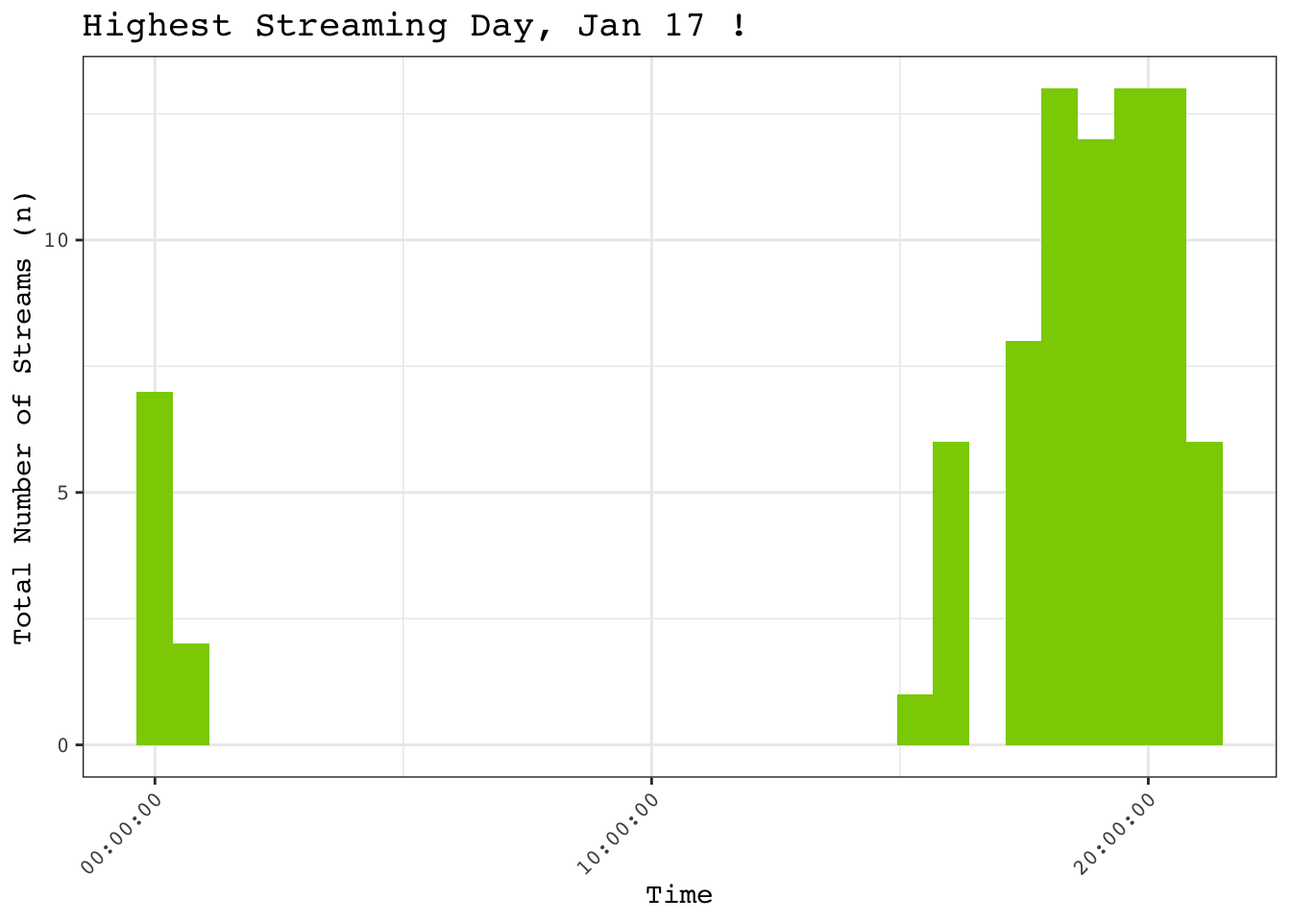
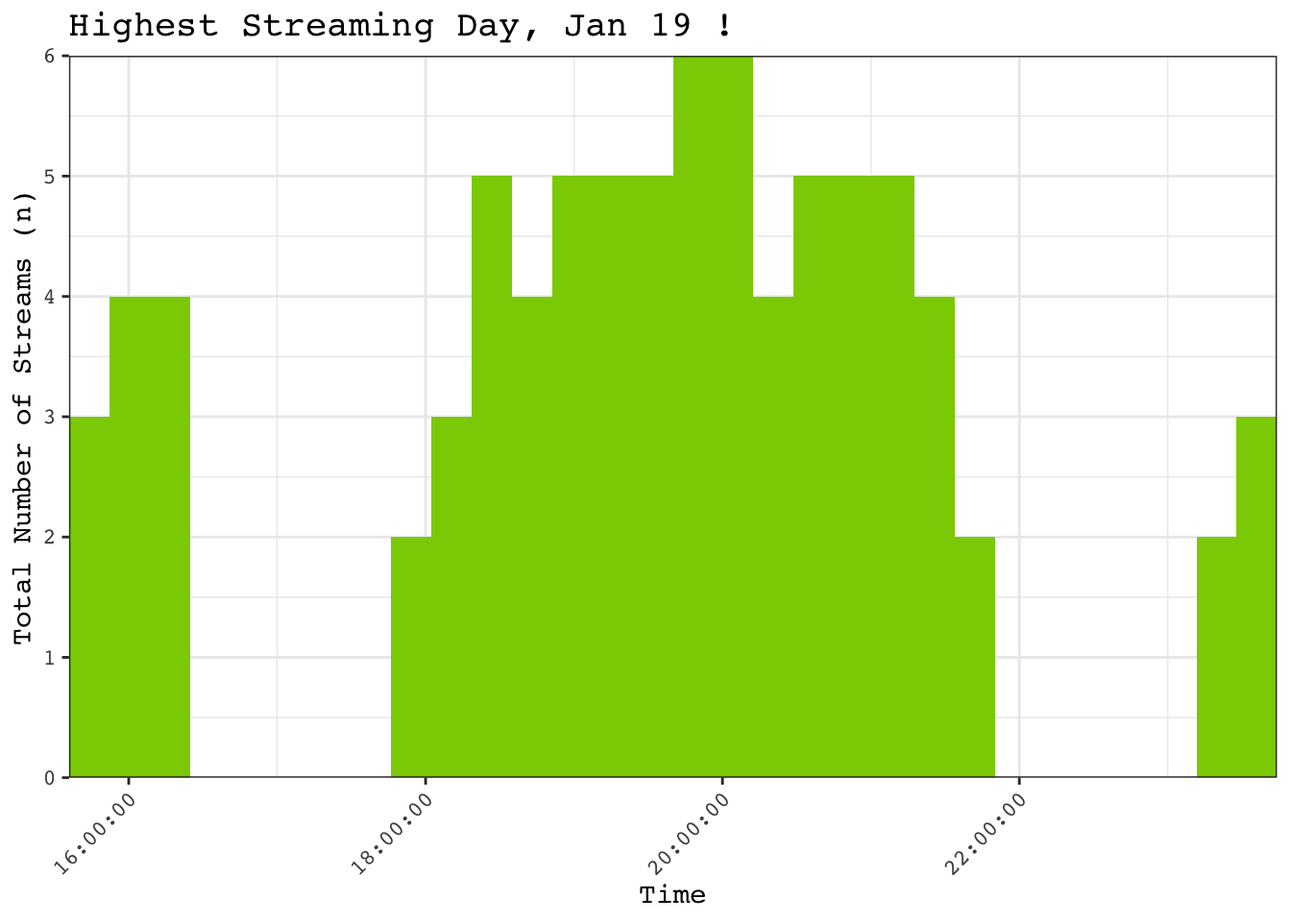
fix errors in code

diff --git a/spotify_wrapped.html b/spotify_wrapped.html
@@ -100,7 +100,7 @@ pre > code.sourceCode > span > a:first-child::before { text-decoration: underlin
 <header id="title-block-header" class="quarto-title-block default">
 <div class="quarto-title">
 <h1 class="title">Spotify Wrapped</h1>
-<p class="subtitle lead">The Flavour: A Deep Dive into My Monthly Streaming</p>
+<p class="subtitle lead">A Deep Dive into My Monthly Streaming</p>
 </div>
 
 
@@ -219,58 +219,58 @@ pre > code.sourceCode > span > a:first-child::before { text-decoration: underlin
 <div class="cell">
 <div class="sourceCode cell-code" id="cb7"><pre class="sourceCode r code-with-copy"><code class="sourceCode r"><span id="cb7-1"><a href="#cb7-1" aria-hidden="true" tabindex="-1"></a><span class="co"># Create monthly datasets</span></span>
 <span id="cb7-2"><a href="#cb7-2" aria-hidden="true" tabindex="-1"></a>monthly_datasets <span class="ot">&lt;-</span> spotify_data_clean <span class="sc">%&gt;%</span></span>
-<span id="cb7-3"><a href="#cb7-3" aria-hidden="true" tabindex="-1"></a>  <span class="fu">mutate</span>(<span class="at">month =</span> <span class="fu">month</span>(date, <span class="at">label =</span> <span class="cn">TRUE</span>)) <span class="sc">%&gt;%</span> </span>
-<span id="cb7-4"><a href="#cb7-4" aria-hidden="true" tabindex="-1"></a>  <span class="fu">group_by</span>(month) <span class="sc">%&gt;%</span></span>
-<span id="cb7-5"><a href="#cb7-5" aria-hidden="true" tabindex="-1"></a>  <span class="fu">mutate</span>(<span class="at">ymd_date =</span> <span class="fu">as.Date</span>(date)) <span class="sc">%&gt;%</span></span>
-<span id="cb7-6"><a href="#cb7-6" aria-hidden="true" tabindex="-1"></a>  <span class="fu">mutate</span>(<span class="at">time =</span> <span class="fu">as_hms</span>(date)) <span class="sc">%&gt;%</span></span>
-<span id="cb7-7"><a href="#cb7-7" aria-hidden="true" tabindex="-1"></a>  <span class="fu">group_split</span>()</span>
-<span id="cb7-8"><a href="#cb7-8" aria-hidden="true" tabindex="-1"></a></span>
-<span id="cb7-9"><a href="#cb7-9" aria-hidden="true" tabindex="-1"></a><span class="co"># Month</span></span>
-<span id="cb7-10"><a href="#cb7-10" aria-hidden="true" tabindex="-1"></a>i <span class="ot">&lt;-</span> <span class="dv">1</span></span></code><button title="Copy to Clipboard" class="code-copy-button"><i class="bi"></i></button></pre></div>
+<span id="cb7-3"><a href="#cb7-3" aria-hidden="true" tabindex="-1"></a>  <span class="fu">mutate</span>(<span class="at">ymd_date =</span> <span class="fu">as.Date</span>(date),</span>
+<span id="cb7-4"><a href="#cb7-4" aria-hidden="true" tabindex="-1"></a>         <span class="at">md_date =</span> <span class="fu">format</span>(ymd_date, <span class="st">"%b %d"</span>),</span>
+<span id="cb7-5"><a href="#cb7-5" aria-hidden="true" tabindex="-1"></a>         <span class="at">month =</span> <span class="fu">month</span>(date, <span class="at">label =</span> <span class="cn">TRUE</span>),</span>
+<span id="cb7-6"><a href="#cb7-6" aria-hidden="true" tabindex="-1"></a>         <span class="at">time =</span> <span class="fu">as_hms</span>(date)) <span class="sc">%&gt;%</span></span>
+<span id="cb7-7"><a href="#cb7-7" aria-hidden="true" tabindex="-1"></a>  <span class="fu">group_by</span>(month) <span class="sc">%&gt;%</span></span>
+<span id="cb7-8"><a href="#cb7-8" aria-hidden="true" tabindex="-1"></a>  <span class="fu">group_split</span>()</span>
+<span id="cb7-9"><a href="#cb7-9" aria-hidden="true" tabindex="-1"></a></span>
+<span id="cb7-10"><a href="#cb7-10" aria-hidden="true" tabindex="-1"></a><span class="co"># Month</span></span>
+<span id="cb7-11"><a href="#cb7-11" aria-hidden="true" tabindex="-1"></a>i <span class="ot">&lt;-</span> <span class="dv">1</span></span></code><button title="Copy to Clipboard" class="code-copy-button"><i class="bi"></i></button></pre></div>
 </div>
 <section id="top-artists" class="level3">
 <h3 class="anchored" data-anchor-id="top-artists">Top Artists</h3>
 <div class="cell">
 <details class="code-fold">
 <summary>Code</summary>
-<div class="sourceCode cell-code" id="cb8"><pre class="sourceCode r code-with-copy"><code class="sourceCode r"><span id="cb8-1"><a href="#cb8-1" aria-hidden="true" tabindex="-1"></a><span class="co"># Summarize the number of unique artists</span></span>
+<div class="sourceCode cell-code" id="cb8"><pre class="sourceCode r code-with-copy"><code class="sourceCode r"><span id="cb8-1"><a href="#cb8-1" aria-hidden="true" tabindex="-1"></a><span class="co"># Summarize the number of unique artists for the given month</span></span>
 <span id="cb8-2"><a href="#cb8-2" aria-hidden="true" tabindex="-1"></a>u_artists <span class="ot">&lt;-</span> monthly_datasets[[i]] <span class="sc">%&gt;%</span></span>
 <span id="cb8-3"><a href="#cb8-3" aria-hidden="true" tabindex="-1"></a>  <span class="fu">summarize</span>(<span class="at">month =</span> month[i], <span class="at">total_unique_artists =</span> <span class="fu">n_distinct</span>(artist))</span>
 <span id="cb8-4"><a href="#cb8-4" aria-hidden="true" tabindex="-1"></a></span>
-<span id="cb8-5"><a href="#cb8-5" aria-hidden="true" tabindex="-1"></a><span class="co"># Print a message with the total unique tracks and the month</span></span>
+<span id="cb8-5"><a href="#cb8-5" aria-hidden="true" tabindex="-1"></a><span class="co"># Print a message with the total number of unique artists and the month</span></span>
 <span id="cb8-6"><a href="#cb8-6" aria-hidden="true" tabindex="-1"></a><span class="fu">message</span>(<span class="fu">paste</span>(<span class="st">"You listened to"</span>, u_artists<span class="sc">$</span>total_unique_artists, <span class="st">"different artists in"</span>, u_artists<span class="sc">$</span>month, <span class="st">"!"</span>))</span></code><button title="Copy to Clipboard" class="code-copy-button"><i class="bi"></i></button></pre></div>
 </details>
 <div class="cell-output cell-output-stderr">
-<pre><code>You listened to 48 different artists in Jan !</code></pre>
+<pre><code>You listened to 71 different artists in Jan !</code></pre>
 </div>
 </div>
 <div class="cell">
 <details class="code-fold">
 <summary>Code</summary>
-<div class="sourceCode cell-code" id="cb10"><pre class="sourceCode r code-with-copy"><code class="sourceCode r"><span id="cb10-1"><a href="#cb10-1" aria-hidden="true" tabindex="-1"></a><span class="co"># Count streams per artist</span></span>
-<span id="cb10-2"><a href="#cb10-2" aria-hidden="true" tabindex="-1"></a>n_streams <span class="ot">&lt;-</span> monthly_datasets[[i]] <span class="sc">%&gt;%</span></span>
+<div class="sourceCode cell-code" id="cb10"><pre class="sourceCode r code-with-copy"><code class="sourceCode r"><span id="cb10-1"><a href="#cb10-1" aria-hidden="true" tabindex="-1"></a><span class="co"># Summarize the top 5 artists for the given month</span></span>
+<span id="cb10-2"><a href="#cb10-2" aria-hidden="true" tabindex="-1"></a>top_5_artists <span class="ot">&lt;-</span> monthly_datasets[[i]] <span class="sc">%&gt;%</span></span>
 <span id="cb10-3"><a href="#cb10-3" aria-hidden="true" tabindex="-1"></a>  <span class="fu">group_by</span>(artist) <span class="sc">%&gt;%</span></span>
 <span id="cb10-4"><a href="#cb10-4" aria-hidden="true" tabindex="-1"></a>  <span class="fu">summarize</span>(<span class="at">total_streams =</span> <span class="fu">sum</span>(<span class="fu">n</span>())) <span class="sc">%&gt;%</span></span>
-<span id="cb10-5"><a href="#cb10-5" aria-hidden="true" tabindex="-1"></a>  <span class="fu">arrange</span>(<span class="fu">desc</span>(total_streams))</span>
-<span id="cb10-6"><a href="#cb10-6" aria-hidden="true" tabindex="-1"></a></span>
-<span id="cb10-7"><a href="#cb10-7" aria-hidden="true" tabindex="-1"></a><span class="co"># Save the top five artists</span></span>
-<span id="cb10-8"><a href="#cb10-8" aria-hidden="true" tabindex="-1"></a>top_5_artists <span class="ot">&lt;-</span> <span class="fu">head</span>(n_streams, <span class="at">n =</span> <span class="dv">5</span>)</span>
-<span id="cb10-9"><a href="#cb10-9" aria-hidden="true" tabindex="-1"></a></span>
-<span id="cb10-10"><a href="#cb10-10" aria-hidden="true" tabindex="-1"></a><span class="co"># Create a barplot</span></span>
-<span id="cb10-11"><a href="#cb10-11" aria-hidden="true" tabindex="-1"></a><span class="fu">ggplot</span>(<span class="at">data =</span> top_5_artists, </span>
-<span id="cb10-12"><a href="#cb10-12" aria-hidden="true" tabindex="-1"></a>       <span class="fu">aes</span>(<span class="at">x =</span> <span class="fu">reorder</span>(artist, <span class="sc">-</span>total_streams), </span>
-<span id="cb10-13"><a href="#cb10-13" aria-hidden="true" tabindex="-1"></a>           <span class="at">y =</span> total_streams)) <span class="sc">+</span></span>
-<span id="cb10-14"><a href="#cb10-14" aria-hidden="true" tabindex="-1"></a>  <span class="fu">geom_bar</span>(<span class="at">stat =</span> <span class="st">"identity"</span>, </span>
-<span id="cb10-15"><a href="#cb10-15" aria-hidden="true" tabindex="-1"></a>           <span class="at">fill =</span> <span class="st">"#8ACE00"</span>) <span class="sc">+</span></span>
-<span id="cb10-16"><a href="#cb10-16" aria-hidden="true" tabindex="-1"></a>  <span class="fu">labs</span>(<span class="at">x =</span> <span class="st">"Artist"</span>,</span>
-<span id="cb10-17"><a href="#cb10-17" aria-hidden="true" tabindex="-1"></a>       <span class="at">y =</span> <span class="st">"Total Number of Streams (n)"</span>,</span>
-<span id="cb10-18"><a href="#cb10-18" aria-hidden="true" tabindex="-1"></a>       <span class="at">title =</span> <span class="fu">paste</span>(<span class="st">"Top 5 Artists in"</span>, monthly_datasets[[i]]<span class="sc">$</span>month, <span class="st">"!"</span>)) <span class="sc">+</span> </span>
-<span id="cb10-19"><a href="#cb10-19" aria-hidden="true" tabindex="-1"></a>  <span class="fu">theme_bw</span>() <span class="sc">+</span></span>
-<span id="cb10-20"><a href="#cb10-20" aria-hidden="true" tabindex="-1"></a>  <span class="fu">theme</span>(<span class="at">axis.text.x =</span> <span class="fu">element_text</span>(<span class="at">angle =</span> <span class="dv">45</span>, <span class="at">hjust =</span> <span class="dv">1</span>, <span class="at">family =</span> <span class="st">"Courier"</span>),  </span>
-<span id="cb10-21"><a href="#cb10-21" aria-hidden="true" tabindex="-1"></a>    <span class="at">axis.text.y =</span> <span class="fu">element_text</span>(<span class="at">family =</span> <span class="st">"Courier"</span>),</span>
-<span id="cb10-22"><a href="#cb10-22" aria-hidden="true" tabindex="-1"></a>    <span class="at">axis.title.x =</span> <span class="fu">element_text</span>(<span class="at">family =</span> <span class="st">"Courier"</span>),</span>
-<span id="cb10-23"><a href="#cb10-23" aria-hidden="true" tabindex="-1"></a>    <span class="at">axis.title.y =</span> <span class="fu">element_text</span>(<span class="at">family =</span> <span class="st">"Courier"</span>),</span>
-<span id="cb10-24"><a href="#cb10-24" aria-hidden="true" tabindex="-1"></a>    <span class="at">plot.title =</span> <span class="fu">element_text</span>(<span class="at">family =</span> <span class="st">"Courier"</span>, <span class="at">size =</span> <span class="dv">14</span>))</span></code><button title="Copy to Clipboard" class="code-copy-button"><i class="bi"></i></button></pre></div>
+<span id="cb10-5"><a href="#cb10-5" aria-hidden="true" tabindex="-1"></a>  <span class="fu">arrange</span>(<span class="fu">desc</span>(total_streams)) <span class="sc">%&gt;%</span></span>
+<span id="cb10-6"><a href="#cb10-6" aria-hidden="true" tabindex="-1"></a>  <span class="fu">slice_head</span>(<span class="at">n =</span> <span class="dv">5</span>)</span>
+<span id="cb10-7"><a href="#cb10-7" aria-hidden="true" tabindex="-1"></a></span>
+<span id="cb10-8"><a href="#cb10-8" aria-hidden="true" tabindex="-1"></a><span class="co"># Create a bar plot for the top 5 artists</span></span>
+<span id="cb10-9"><a href="#cb10-9" aria-hidden="true" tabindex="-1"></a><span class="fu">ggplot</span>(<span class="at">data =</span> top_5_artists, </span>
+<span id="cb10-10"><a href="#cb10-10" aria-hidden="true" tabindex="-1"></a>       <span class="fu">aes</span>(<span class="at">x =</span> <span class="fu">reorder</span>(artist, <span class="sc">-</span>total_streams), <span class="at">y =</span> total_streams)) <span class="sc">+</span></span>
+<span id="cb10-11"><a href="#cb10-11" aria-hidden="true" tabindex="-1"></a>  <span class="fu">geom_bar</span>(<span class="at">stat =</span> <span class="st">"identity"</span>, </span>
+<span id="cb10-12"><a href="#cb10-12" aria-hidden="true" tabindex="-1"></a>           <span class="at">fill =</span> <span class="st">"#8ACE00"</span>) <span class="sc">+</span></span>
+<span id="cb10-13"><a href="#cb10-13" aria-hidden="true" tabindex="-1"></a>  <span class="fu">labs</span>(<span class="at">x =</span> <span class="st">"Artist"</span>,</span>
+<span id="cb10-14"><a href="#cb10-14" aria-hidden="true" tabindex="-1"></a>       <span class="at">y =</span> <span class="st">"Total Number of Streams (n)"</span>,</span>
+<span id="cb10-15"><a href="#cb10-15" aria-hidden="true" tabindex="-1"></a>       <span class="at">title =</span> <span class="fu">paste</span>(<span class="st">"Top 5 Artists in"</span>, monthly_datasets[[i]]<span class="sc">$</span>month, <span class="st">"!"</span>)) <span class="sc">+</span></span>
+<span id="cb10-16"><a href="#cb10-16" aria-hidden="true" tabindex="-1"></a>  <span class="fu">scale_x_discrete</span>(<span class="at">expand =</span> <span class="fu">c</span>(<span class="dv">0</span>, <span class="dv">0</span>)) <span class="sc">+</span></span>
+<span id="cb10-17"><a href="#cb10-17" aria-hidden="true" tabindex="-1"></a>  <span class="fu">scale_y_continuous</span>(<span class="at">expand =</span> <span class="fu">c</span>(<span class="dv">0</span>, <span class="dv">0</span>)) <span class="sc">+</span></span>
+<span id="cb10-18"><a href="#cb10-18" aria-hidden="true" tabindex="-1"></a>  <span class="fu">theme_bw</span>() <span class="sc">+</span></span>
+<span id="cb10-19"><a href="#cb10-19" aria-hidden="true" tabindex="-1"></a>  <span class="fu">theme</span>(<span class="at">axis.text.x =</span> <span class="fu">element_text</span>(<span class="at">angle =</span> <span class="dv">45</span>, <span class="at">hjust =</span> <span class="dv">1</span>, <span class="at">family =</span> <span class="st">"Courier"</span>),</span>
+<span id="cb10-20"><a href="#cb10-20" aria-hidden="true" tabindex="-1"></a>        <span class="at">axis.text.y =</span> <span class="fu">element_text</span>(<span class="at">family =</span> <span class="st">"Courier"</span>),</span>
+<span id="cb10-21"><a href="#cb10-21" aria-hidden="true" tabindex="-1"></a>        <span class="at">axis.title.x =</span> <span class="fu">element_text</span>(<span class="at">family =</span> <span class="st">"Courier"</span>),</span>
+<span id="cb10-22"><a href="#cb10-22" aria-hidden="true" tabindex="-1"></a>        <span class="at">axis.title.y =</span> <span class="fu">element_text</span>(<span class="at">family =</span> <span class="st">"Courier"</span>),</span>
+<span id="cb10-23"><a href="#cb10-23" aria-hidden="true" tabindex="-1"></a>        <span class="at">plot.title =</span> <span class="fu">element_text</span>(<span class="at">family =</span> <span class="st">"Courier"</span>, <span class="at">size =</span> <span class="dv">14</span>))</span></code><button title="Copy to Clipboard" class="code-copy-button"><i class="bi"></i></button></pre></div>
 </details>
 <div class="cell-output-display">
 <div>
@@ -286,54 +286,53 @@ pre > code.sourceCode > span > a:first-child::before { text-decoration: underlin
 <div class="cell">
 <details class="code-fold">
 <summary>Code</summary>
-<div class="sourceCode cell-code" id="cb11"><pre class="sourceCode r code-with-copy"><code class="sourceCode r"><span id="cb11-1"><a href="#cb11-1" aria-hidden="true" tabindex="-1"></a><span class="co"># Print a message with the total number of track streams</span></span>
+<div class="sourceCode cell-code" id="cb11"><pre class="sourceCode r code-with-copy"><code class="sourceCode r"><span id="cb11-1"><a href="#cb11-1" aria-hidden="true" tabindex="-1"></a><span class="co"># Print a message with the total number of track streams for the given month</span></span>
 <span id="cb11-2"><a href="#cb11-2" aria-hidden="true" tabindex="-1"></a><span class="fu">message</span>(<span class="fu">paste</span>(<span class="st">"You listened to a total of"</span>, <span class="fu">nrow</span>(monthly_datasets[[i]]), <span class="st">"songs in"</span>, monthly_datasets[[i]]<span class="sc">$</span>month[<span class="dv">1</span>], <span class="st">"!"</span>))</span></code><button title="Copy to Clipboard" class="code-copy-button"><i class="bi"></i></button></pre></div>
 </details>
 <div class="cell-output cell-output-stderr">
-<pre><code>You listened to a total of 140 songs in Jan !</code></pre>
+<pre><code>You listened to a total of 277 songs in Jan !</code></pre>
 </div>
 </div>
 <div class="cell">
 <details class="code-fold">
 <summary>Code</summary>
-<div class="sourceCode cell-code" id="cb13"><pre class="sourceCode r code-with-copy"><code class="sourceCode r"><span id="cb13-1"><a href="#cb13-1" aria-hidden="true" tabindex="-1"></a><span class="co"># Summarize the number of unique tracks</span></span>
+<div class="sourceCode cell-code" id="cb13"><pre class="sourceCode r code-with-copy"><code class="sourceCode r"><span id="cb13-1"><a href="#cb13-1" aria-hidden="true" tabindex="-1"></a><span class="co"># Summarize the number of unique tracks for the given month</span></span>
 <span id="cb13-2"><a href="#cb13-2" aria-hidden="true" tabindex="-1"></a>u_tracks <span class="ot">&lt;-</span> monthly_datasets[[i]] <span class="sc">%&gt;%</span></span>
 <span id="cb13-3"><a href="#cb13-3" aria-hidden="true" tabindex="-1"></a>  <span class="fu">summarize</span>(<span class="at">month =</span> month[i], <span class="at">total_unique_tracks =</span> <span class="fu">n_distinct</span>(track_name))</span>
 <span id="cb13-4"><a href="#cb13-4" aria-hidden="true" tabindex="-1"></a></span>
-<span id="cb13-5"><a href="#cb13-5" aria-hidden="true" tabindex="-1"></a><span class="co"># Print a message with the total unique tracks for the month</span></span>
+<span id="cb13-5"><a href="#cb13-5" aria-hidden="true" tabindex="-1"></a><span class="co"># Print a message with the total number of unique tracks and the month</span></span>
 <span id="cb13-6"><a href="#cb13-6" aria-hidden="true" tabindex="-1"></a><span class="fu">message</span>(<span class="fu">paste</span>(<span class="st">"Out of those"</span>, <span class="fu">nrow</span>(monthly_datasets[[i]]), <span class="st">","</span>, u_tracks<span class="sc">$</span>total_unique_tracks, <span class="st">"were different songs !"</span>))</span></code><button title="Copy to Clipboard" class="code-copy-button"><i class="bi"></i></button></pre></div>
 </details>
 <div class="cell-output cell-output-stderr">
-<pre><code>Out of those 140 , 119 were different songs !</code></pre>
+<pre><code>Out of those 277 , 203 were different songs !</code></pre>
 </div>
 </div>
 <div class="cell">
 <details class="code-fold">
 <summary>Code</summary>
-<div class="sourceCode cell-code" id="cb15"><pre class="sourceCode r code-with-copy"><code class="sourceCode r"><span id="cb15-1"><a href="#cb15-1" aria-hidden="true" tabindex="-1"></a><span class="co"># Count the top tracks</span></span>
-<span id="cb15-2"><a href="#cb15-2" aria-hidden="true" tabindex="-1"></a>top_tracks <span class="ot">&lt;-</span> monthly_datasets[[i]] <span class="sc">%&gt;%</span></span>
+<div class="sourceCode cell-code" id="cb15"><pre class="sourceCode r code-with-copy"><code class="sourceCode r"><span id="cb15-1"><a href="#cb15-1" aria-hidden="true" tabindex="-1"></a><span class="co"># Summarize the top 5 tracks for the given month</span></span>
+<span id="cb15-2"><a href="#cb15-2" aria-hidden="true" tabindex="-1"></a>top_5_tracks <span class="ot">&lt;-</span> monthly_datasets[[i]] <span class="sc">%&gt;%</span></span>
 <span id="cb15-3"><a href="#cb15-3" aria-hidden="true" tabindex="-1"></a>  <span class="fu">group_by</span>(track_name) <span class="sc">%&gt;%</span></span>
 <span id="cb15-4"><a href="#cb15-4" aria-hidden="true" tabindex="-1"></a>  <span class="fu">summarize</span>(<span class="at">total_streams =</span> <span class="fu">sum</span>(<span class="fu">n</span>())) <span class="sc">%&gt;%</span></span>
-<span id="cb15-5"><a href="#cb15-5" aria-hidden="true" tabindex="-1"></a>  <span class="fu">arrange</span>(<span class="fu">desc</span>(total_streams))</span>
-<span id="cb15-6"><a href="#cb15-6" aria-hidden="true" tabindex="-1"></a></span>
-<span id="cb15-7"><a href="#cb15-7" aria-hidden="true" tabindex="-1"></a><span class="co"># Save the top five tracks</span></span>
-<span id="cb15-8"><a href="#cb15-8" aria-hidden="true" tabindex="-1"></a>top_5_tracks <span class="ot">&lt;-</span> <span class="fu">head</span>(top_tracks, <span class="at">n =</span> <span class="dv">5</span>)</span>
-<span id="cb15-9"><a href="#cb15-9" aria-hidden="true" tabindex="-1"></a></span>
-<span id="cb15-10"><a href="#cb15-10" aria-hidden="true" tabindex="-1"></a><span class="co"># Create a barplot</span></span>
-<span id="cb15-11"><a href="#cb15-11" aria-hidden="true" tabindex="-1"></a><span class="fu">ggplot</span>(<span class="at">data =</span> top_5_tracks, </span>
-<span id="cb15-12"><a href="#cb15-12" aria-hidden="true" tabindex="-1"></a>       <span class="fu">aes</span>(<span class="at">x =</span> <span class="fu">reorder</span>(track_name, <span class="sc">-</span>total_streams), </span>
-<span id="cb15-13"><a href="#cb15-13" aria-hidden="true" tabindex="-1"></a>           <span class="at">y =</span> total_streams)) <span class="sc">+</span></span>
-<span id="cb15-14"><a href="#cb15-14" aria-hidden="true" tabindex="-1"></a>  <span class="fu">geom_bar</span>(<span class="at">stat =</span> <span class="st">"identity"</span>, </span>
-<span id="cb15-15"><a href="#cb15-15" aria-hidden="true" tabindex="-1"></a>           <span class="at">fill =</span> <span class="st">"#8ACE00"</span>) <span class="sc">+</span></span>
-<span id="cb15-16"><a href="#cb15-16" aria-hidden="true" tabindex="-1"></a>  <span class="fu">labs</span>(<span class="at">x =</span> <span class="st">"Track Title"</span>,</span>
-<span id="cb15-17"><a href="#cb15-17" aria-hidden="true" tabindex="-1"></a>       <span class="at">y =</span> <span class="st">"Total Number of Streams (n)"</span>,</span>
-<span id="cb15-18"><a href="#cb15-18" aria-hidden="true" tabindex="-1"></a>       <span class="at">title =</span> <span class="fu">paste</span>(<span class="st">"Top 5 Songs in"</span>, monthly_datasets[[i]]<span class="sc">$</span>month, <span class="st">"!"</span>))<span class="sc">+</span> </span>
-<span id="cb15-19"><a href="#cb15-19" aria-hidden="true" tabindex="-1"></a>  <span class="fu">theme_bw</span>() <span class="sc">+</span></span>
-<span id="cb15-20"><a href="#cb15-20" aria-hidden="true" tabindex="-1"></a>  <span class="fu">theme</span>(<span class="at">axis.text.x =</span> <span class="fu">element_text</span>(<span class="at">angle =</span> <span class="dv">45</span>, <span class="at">hjust =</span> <span class="dv">1</span>, <span class="at">family =</span> <span class="st">"Courier"</span>),  </span>
-<span id="cb15-21"><a href="#cb15-21" aria-hidden="true" tabindex="-1"></a>        <span class="at">axis.text.y =</span> <span class="fu">element_text</span>(<span class="at">family =</span> <span class="st">"Courier"</span>),</span>
-<span id="cb15-22"><a href="#cb15-22" aria-hidden="true" tabindex="-1"></a>        <span class="at">axis.title.x =</span> <span class="fu">element_text</span>(<span class="at">family =</span> <span class="st">"Courier"</span>),</span>
-<span id="cb15-23"><a href="#cb15-23" aria-hidden="true" tabindex="-1"></a>        <span class="at">axis.title.y =</span> <span class="fu">element_text</span>(<span class="at">family =</span> <span class="st">"Courier"</span>),</span>
-<span id="cb15-24"><a href="#cb15-24" aria-hidden="true" tabindex="-1"></a>        <span class="at">plot.title =</span> <span class="fu">element_text</span>(<span class="at">family =</span> <span class="st">"Courier"</span>, <span class="at">size =</span> <span class="dv">14</span>))</span></code><button title="Copy to Clipboard" class="code-copy-button"><i class="bi"></i></button></pre></div>
+<span id="cb15-5"><a href="#cb15-5" aria-hidden="true" tabindex="-1"></a>  <span class="fu">arrange</span>(<span class="fu">desc</span>(total_streams)) <span class="sc">%&gt;%</span></span>
+<span id="cb15-6"><a href="#cb15-6" aria-hidden="true" tabindex="-1"></a>  <span class="fu">slice_head</span>(<span class="at">n =</span> <span class="dv">5</span>)</span>
+<span id="cb15-7"><a href="#cb15-7" aria-hidden="true" tabindex="-1"></a></span>
+<span id="cb15-8"><a href="#cb15-8" aria-hidden="true" tabindex="-1"></a><span class="co"># Create a bar plot for the top 5 tracks</span></span>
+<span id="cb15-9"><a href="#cb15-9" aria-hidden="true" tabindex="-1"></a><span class="fu">ggplot</span>(<span class="at">data =</span> top_5_tracks, </span>
+<span id="cb15-10"><a href="#cb15-10" aria-hidden="true" tabindex="-1"></a>       <span class="fu">aes</span>(<span class="at">x =</span> <span class="fu">reorder</span>(track_name, <span class="sc">-</span>total_streams), <span class="at">y =</span> total_streams)) <span class="sc">+</span></span>
+<span id="cb15-11"><a href="#cb15-11" aria-hidden="true" tabindex="-1"></a>  <span class="fu">geom_bar</span>(<span class="at">stat =</span> <span class="st">"identity"</span>, </span>
+<span id="cb15-12"><a href="#cb15-12" aria-hidden="true" tabindex="-1"></a>           <span class="at">fill =</span> <span class="st">"#8ACE00"</span>) <span class="sc">+</span></span>
+<span id="cb15-13"><a href="#cb15-13" aria-hidden="true" tabindex="-1"></a>  <span class="fu">labs</span>(<span class="at">x =</span> <span class="st">"Track Title"</span>,</span>
+<span id="cb15-14"><a href="#cb15-14" aria-hidden="true" tabindex="-1"></a>       <span class="at">y =</span> <span class="st">"Total Number of Streams (n)"</span>,</span>
+<span id="cb15-15"><a href="#cb15-15" aria-hidden="true" tabindex="-1"></a>       <span class="at">title =</span> <span class="fu">paste</span>(<span class="st">"Top 5 Songs in"</span>, monthly_datasets[[i]]<span class="sc">$</span>month, <span class="st">"!"</span>)) <span class="sc">+</span></span>
+<span id="cb15-16"><a href="#cb15-16" aria-hidden="true" tabindex="-1"></a>  <span class="fu">scale_x_discrete</span>(<span class="at">expand =</span> <span class="fu">c</span>(<span class="dv">0</span>, <span class="dv">0</span>)) <span class="sc">+</span></span>
+<span id="cb15-17"><a href="#cb15-17" aria-hidden="true" tabindex="-1"></a>  <span class="fu">scale_y_continuous</span>(<span class="at">expand =</span> <span class="fu">c</span>(<span class="dv">0</span>, <span class="dv">0</span>)) <span class="sc">+</span></span>
+<span id="cb15-18"><a href="#cb15-18" aria-hidden="true" tabindex="-1"></a>  <span class="fu">theme_bw</span>() <span class="sc">+</span></span>
+<span id="cb15-19"><a href="#cb15-19" aria-hidden="true" tabindex="-1"></a>  <span class="fu">theme</span>(<span class="at">axis.text.x =</span> <span class="fu">element_text</span>(<span class="at">angle =</span> <span class="dv">45</span>, <span class="at">hjust =</span> <span class="dv">1</span>, <span class="at">family =</span> <span class="st">"Courier"</span>),  </span>
+<span id="cb15-20"><a href="#cb15-20" aria-hidden="true" tabindex="-1"></a>        <span class="at">axis.text.y =</span> <span class="fu">element_text</span>(<span class="at">family =</span> <span class="st">"Courier"</span>),</span>
+<span id="cb15-21"><a href="#cb15-21" aria-hidden="true" tabindex="-1"></a>        <span class="at">axis.title.x =</span> <span class="fu">element_text</span>(<span class="at">family =</span> <span class="st">"Courier"</span>),</span>
+<span id="cb15-22"><a href="#cb15-22" aria-hidden="true" tabindex="-1"></a>        <span class="at">axis.title.y =</span> <span class="fu">element_text</span>(<span class="at">family =</span> <span class="st">"Courier"</span>),</span>
+<span id="cb15-23"><a href="#cb15-23" aria-hidden="true" tabindex="-1"></a>        <span class="at">plot.title =</span> <span class="fu">element_text</span>(<span class="at">family =</span> <span class="st">"Courier"</span>, <span class="at">size =</span> <span class="dv">14</span>))</span></code><button title="Copy to Clipboard" class="code-copy-button"><i class="bi"></i></button></pre></div>
 </details>
 <div class="cell-output-display">
 <div>
@@ -349,44 +348,45 @@ pre > code.sourceCode > span > a:first-child::before { text-decoration: underlin
 <div class="cell">
 <details class="code-fold">
 <summary>Code</summary>
-<div class="sourceCode cell-code" id="cb16"><pre class="sourceCode r code-with-copy"><code class="sourceCode r"><span id="cb16-1"><a href="#cb16-1" aria-hidden="true" tabindex="-1"></a><span class="co"># Summarize the number of songs per day</span></span>
+<div class="sourceCode cell-code" id="cb16"><pre class="sourceCode r code-with-copy"><code class="sourceCode r"><span id="cb16-1"><a href="#cb16-1" aria-hidden="true" tabindex="-1"></a><span class="co"># Summarize the number of songs streamed per day for the given month</span></span>
 <span id="cb16-2"><a href="#cb16-2" aria-hidden="true" tabindex="-1"></a>daily_songs <span class="ot">&lt;-</span> monthly_datasets[[i]] <span class="sc">%&gt;%</span></span>
 <span id="cb16-3"><a href="#cb16-3" aria-hidden="true" tabindex="-1"></a>  <span class="fu">group_by</span>(ymd_date) <span class="sc">%&gt;%</span></span>
 <span id="cb16-4"><a href="#cb16-4" aria-hidden="true" tabindex="-1"></a>  <span class="fu">summarize</span>(<span class="at">n_songs =</span> <span class="fu">n</span>()) <span class="sc">%&gt;%</span></span>
-<span id="cb16-5"><a href="#cb16-5" aria-hidden="true" tabindex="-1"></a>  <span class="fu">mutate</span>(<span class="at">month_day =</span> <span class="fu">format</span>(ymd_date, <span class="st">"%b %d"</span>)) <span class="sc">%&gt;%</span></span>
+<span id="cb16-5"><a href="#cb16-5" aria-hidden="true" tabindex="-1"></a>  <span class="fu">mutate</span>(<span class="at">md_date =</span> <span class="fu">format</span>(ymd_date, <span class="st">"%b %d"</span>)) <span class="sc">%&gt;%</span></span>
 <span id="cb16-6"><a href="#cb16-6" aria-hidden="true" tabindex="-1"></a>  <span class="fu">arrange</span>(<span class="fu">desc</span>(n_songs))</span>
 <span id="cb16-7"><a href="#cb16-7" aria-hidden="true" tabindex="-1"></a></span>
 <span id="cb16-8"><a href="#cb16-8" aria-hidden="true" tabindex="-1"></a><span class="co"># Print a message for the highest streaming day</span></span>
-<span id="cb16-9"><a href="#cb16-9" aria-hidden="true" tabindex="-1"></a><span class="fu">message</span>(<span class="fu">paste</span>(<span class="st">"Your highest streaming day was"</span>, daily_songs<span class="sc">$</span>month_day[i], <span class="st">"with"</span>, daily_songs<span class="sc">$</span>n_songs[i], <span class="st">"songs streamed !"</span>))</span></code><button title="Copy to Clipboard" class="code-copy-button"><i class="bi"></i></button></pre></div>
+<span id="cb16-9"><a href="#cb16-9" aria-hidden="true" tabindex="-1"></a><span class="fu">message</span>(<span class="fu">paste</span>(<span class="st">"Your highest streaming day was"</span>, daily_songs<span class="sc">$</span>md_date[<span class="dv">1</span>], <span class="st">"with"</span>, daily_songs<span class="sc">$</span>n_songs[<span class="dv">1</span>], <span class="st">"songs streamed !"</span>))</span></code><button title="Copy to Clipboard" class="code-copy-button"><i class="bi"></i></button></pre></div>
 </details>
 <div class="cell-output cell-output-stderr">
-<pre><code>Your highest streaming day was Jan 17 with 81 songs streamed !</code></pre>
+<pre><code>Your highest streaming day was Jan 19 with 82 songs streamed !</code></pre>
 </div>
 </div>
 <div class="cell">
 <details class="code-fold">
 <summary>Code</summary>
-<div class="sourceCode cell-code" id="cb18"><pre class="sourceCode r code-with-copy"><code class="sourceCode r"><span id="cb18-1"><a href="#cb18-1" aria-hidden="true" tabindex="-1"></a><span class="co"># Extract the last position of the dataset</span></span>
-<span id="cb18-2"><a href="#cb18-2" aria-hidden="true" tabindex="-1"></a>last_position <span class="ot">&lt;-</span> <span class="fu">nrow</span>(daily_songs)</span>
-<span id="cb18-3"><a href="#cb18-3" aria-hidden="true" tabindex="-1"></a></span>
-<span id="cb18-4"><a href="#cb18-4" aria-hidden="true" tabindex="-1"></a><span class="co"># Print a message for the lowest streaming day</span></span>
-<span id="cb18-5"><a href="#cb18-5" aria-hidden="true" tabindex="-1"></a><span class="fu">message</span>(<span class="fu">paste</span>(<span class="st">"Your lowest streaming day was"</span>, daily_songs<span class="sc">$</span>month_day[last_position], <span class="st">"with"</span>, daily_songs<span class="sc">$</span>n_songs[last_position], <span class="st">"songs streamed !"</span>))</span></code><button title="Copy to Clipboard" class="code-copy-button"><i class="bi"></i></button></pre></div>
+<div class="sourceCode cell-code" id="cb18"><pre class="sourceCode r code-with-copy"><code class="sourceCode r"><span id="cb18-1"><a href="#cb18-1" aria-hidden="true" tabindex="-1"></a><span class="co"># Extract the last row of the dataframe (lowest streaming day)</span></span>
+<span id="cb18-2"><a href="#cb18-2" aria-hidden="true" tabindex="-1"></a>lowest_streaming_day <span class="ot">&lt;-</span> daily_songs <span class="sc">%&gt;%</span> </span>
+<span id="cb18-3"><a href="#cb18-3" aria-hidden="true" tabindex="-1"></a>  <span class="fu">slice_tail</span>(<span class="at">n =</span> <span class="dv">1</span>)</span>
+<span id="cb18-4"><a href="#cb18-4" aria-hidden="true" tabindex="-1"></a></span>
+<span id="cb18-5"><a href="#cb18-5" aria-hidden="true" tabindex="-1"></a><span class="co"># Print a message for the lowest streaming day</span></span>
+<span id="cb18-6"><a href="#cb18-6" aria-hidden="true" tabindex="-1"></a><span class="fu">message</span>(<span class="fu">paste</span>(<span class="st">"Your lowest streaming day was"</span>, lowest_streaming_day<span class="sc">$</span>md_date, <span class="st">"with"</span>, lowest_streaming_day<span class="sc">$</span>n_songs, <span class="st">"songs streamed !"</span>))</span></code><button title="Copy to Clipboard" class="code-copy-button"><i class="bi"></i></button></pre></div>
 </details>
 <div class="cell-output cell-output-stderr">
-<pre><code>Your lowest streaming day was Jan 18 with 27 songs streamed !</code></pre>
+<pre><code>Your lowest streaming day was Jan 20 with 6 songs streamed !</code></pre>
 </div>
 </div>
 <div class="cell">
 <details class="code-fold">
 <summary>Code</summary>
-<div class="sourceCode cell-code" id="cb20"><pre class="sourceCode r code-with-copy"><code class="sourceCode r"><span id="cb20-1"><a href="#cb20-1" aria-hidden="true" tabindex="-1"></a><span class="co"># Creat a line plot</span></span>
-<span id="cb20-2"><a href="#cb20-2" aria-hidden="true" tabindex="-1"></a><span class="fu">ggplot</span>(<span class="at">data =</span> daily_songs, </span>
-<span id="cb20-3"><a href="#cb20-3" aria-hidden="true" tabindex="-1"></a>       <span class="fu">aes</span>(<span class="at">x =</span> month_day, <span class="at">y =</span> n_songs, <span class="at">group =</span> <span class="dv">1</span>)) <span class="sc">+</span></span>
-<span id="cb20-4"><a href="#cb20-4" aria-hidden="true" tabindex="-1"></a>  <span class="fu">geom_point</span>(<span class="at">color =</span> <span class="st">"#8ACE00"</span>) <span class="sc">+</span></span>
-<span id="cb20-5"><a href="#cb20-5" aria-hidden="true" tabindex="-1"></a>  <span class="fu">geom_line</span>(<span class="at">color =</span> <span class="st">"#8ACE00"</span>, <span class="at">linewidth =</span> <span class="dv">1</span>) <span class="sc">+</span></span>
-<span id="cb20-6"><a href="#cb20-6" aria-hidden="true" tabindex="-1"></a>  <span class="fu">labs</span>(<span class="at">x =</span> <span class="st">"Date"</span>,</span>
-<span id="cb20-7"><a href="#cb20-7" aria-hidden="true" tabindex="-1"></a>       <span class="at">y =</span> <span class="st">"Total Number of Streams (n)"</span>,</span>
-<span id="cb20-8"><a href="#cb20-8" aria-hidden="true" tabindex="-1"></a>       <span class="at">title =</span> <span class="fu">paste</span>(<span class="st">"Monthly Streaming Habits for"</span>, monthly_datasets[[i]]<span class="sc">$</span>month)) <span class="sc">+</span> </span>
+<div class="sourceCode cell-code" id="cb20"><pre class="sourceCode r code-with-copy"><code class="sourceCode r"><span id="cb20-1"><a href="#cb20-1" aria-hidden="true" tabindex="-1"></a><span class="co"># Create a line plot of daily streaming habits</span></span>
+<span id="cb20-2"><a href="#cb20-2" aria-hidden="true" tabindex="-1"></a><span class="fu">ggplot</span>(<span class="at">data =</span> daily_songs, <span class="fu">aes</span>(<span class="at">x =</span> ymd_date, <span class="at">y =</span> n_songs)) <span class="sc">+</span></span>
+<span id="cb20-3"><a href="#cb20-3" aria-hidden="true" tabindex="-1"></a>  <span class="fu">geom_point</span>(<span class="at">color =</span> <span class="st">"#8ACE00"</span>) <span class="sc">+</span></span>
+<span id="cb20-4"><a href="#cb20-4" aria-hidden="true" tabindex="-1"></a>  <span class="fu">geom_line</span>(<span class="at">color =</span> <span class="st">"#8ACE00"</span>, <span class="at">linewidth =</span> <span class="dv">1</span>) <span class="sc">+</span></span>
+<span id="cb20-5"><a href="#cb20-5" aria-hidden="true" tabindex="-1"></a>  <span class="fu">labs</span>(<span class="at">x =</span> <span class="st">"Date"</span>,</span>
+<span id="cb20-6"><a href="#cb20-6" aria-hidden="true" tabindex="-1"></a>       <span class="at">y =</span> <span class="st">"Total Number of Streams (n)"</span>,</span>
+<span id="cb20-7"><a href="#cb20-7" aria-hidden="true" tabindex="-1"></a>       <span class="at">title =</span> <span class="fu">paste</span>(<span class="st">"Monthly Streaming Habits for"</span>, monthly_datasets[[i]]<span class="sc">$</span>month, <span class="st">"!"</span>)) <span class="sc">+</span></span>
+<span id="cb20-8"><a href="#cb20-8" aria-hidden="true" tabindex="-1"></a>  <span class="fu">scale_x_date</span>(<span class="at">expand =</span> <span class="fu">c</span>(<span class="dv">0</span>, <span class="dv">0</span>), <span class="at">date_breaks =</span> <span class="st">"2 days"</span>, <span class="at">date_labels =</span> <span class="st">"%b %d"</span>) <span class="sc">+</span> </span>
 <span id="cb20-9"><a href="#cb20-9" aria-hidden="true" tabindex="-1"></a>  <span class="fu">theme_bw</span>() <span class="sc">+</span></span>
 <span id="cb20-10"><a href="#cb20-10" aria-hidden="true" tabindex="-1"></a>  <span class="fu">theme</span>(<span class="at">axis.text.x =</span> <span class="fu">element_text</span>(<span class="at">angle =</span> <span class="dv">45</span>, <span class="at">hjust =</span> <span class="dv">1</span>, <span class="at">family =</span> <span class="st">"Courier"</span>),  </span>
 <span id="cb20-11"><a href="#cb20-11" aria-hidden="true" tabindex="-1"></a>        <span class="at">axis.text.y =</span> <span class="fu">element_text</span>(<span class="at">family =</span> <span class="st">"Courier"</span>),</span>
@@ -406,21 +406,22 @@ pre > code.sourceCode > span > a:first-child::before { text-decoration: underlin
 <details class="code-fold">
 <summary>Code</summary>
 <div class="sourceCode cell-code" id="cb21"><pre class="sourceCode r code-with-copy"><code class="sourceCode r"><span id="cb21-1"><a href="#cb21-1" aria-hidden="true" tabindex="-1"></a><span class="co"># Extract the day with the highest streams</span></span>
-<span id="cb21-2"><a href="#cb21-2" aria-hidden="true" tabindex="-1"></a>high_streams <span class="ot">&lt;-</span> <span class="fu">inner_join</span>(monthly_datasets[[i]], daily_songs[<span class="dv">1</span>, <span class="dv">1</span><span class="sc">:</span><span class="dv">2</span>], <span class="at">by =</span> <span class="st">"ymd_date"</span>)</span>
+<span id="cb21-2"><a href="#cb21-2" aria-hidden="true" tabindex="-1"></a>highest_streaming_day <span class="ot">&lt;-</span> <span class="fu">inner_join</span>(monthly_datasets[[i]], daily_songs[<span class="dv">1</span>, <span class="dv">1</span><span class="sc">:</span><span class="dv">2</span>], <span class="at">by =</span> <span class="st">"ymd_date"</span>)</span>
 <span id="cb21-3"><a href="#cb21-3" aria-hidden="true" tabindex="-1"></a></span>
-<span id="cb21-4"><a href="#cb21-4" aria-hidden="true" tabindex="-1"></a><span class="co"># Create a density plot</span></span>
-<span id="cb21-5"><a href="#cb21-5" aria-hidden="true" tabindex="-1"></a><span class="fu">ggplot</span>(<span class="at">data =</span> high_streams, </span>
-<span id="cb21-6"><a href="#cb21-6" aria-hidden="true" tabindex="-1"></a>       <span class="fu">aes</span>(<span class="at">x =</span> time)) <span class="sc">+</span></span>
-<span id="cb21-7"><a href="#cb21-7" aria-hidden="true" tabindex="-1"></a>  <span class="fu">geom_histogram</span>(<span class="at">bins =</span> <span class="dv">30</span>, <span class="at">fill =</span> <span class="st">"#8ACE00"</span>) <span class="sc">+</span></span>
-<span id="cb21-8"><a href="#cb21-8" aria-hidden="true" tabindex="-1"></a>  <span class="fu">labs</span>(<span class="at">x =</span> <span class="st">"Time"</span>,</span>
-<span id="cb21-9"><a href="#cb21-9" aria-hidden="true" tabindex="-1"></a>       <span class="at">y =</span> <span class="st">"Total Number of Streams (n)"</span>,</span>
-<span id="cb21-10"><a href="#cb21-10" aria-hidden="true" tabindex="-1"></a>       <span class="at">title =</span> <span class="fu">paste</span>(<span class="st">"Highest Streaming Day,"</span>, daily_songs<span class="sc">$</span>month_day[<span class="dv">1</span>], <span class="st">"!"</span>)) <span class="sc">+</span></span>
-<span id="cb21-11"><a href="#cb21-11" aria-hidden="true" tabindex="-1"></a>  <span class="fu">theme_bw</span>() <span class="sc">+</span></span>
-<span id="cb21-12"><a href="#cb21-12" aria-hidden="true" tabindex="-1"></a>  <span class="fu">theme</span>(<span class="at">axis.text.x =</span> <span class="fu">element_text</span>(<span class="at">angle =</span> <span class="dv">45</span>, <span class="at">hjust =</span> <span class="dv">1</span>, <span class="at">family =</span> <span class="st">"Courier"</span>),  </span>
-<span id="cb21-13"><a href="#cb21-13" aria-hidden="true" tabindex="-1"></a>        <span class="at">axis.text.y =</span> <span class="fu">element_text</span>(<span class="at">family =</span> <span class="st">"Courier"</span>),</span>
-<span id="cb21-14"><a href="#cb21-14" aria-hidden="true" tabindex="-1"></a>        <span class="at">axis.title.x =</span> <span class="fu">element_text</span>(<span class="at">family =</span> <span class="st">"Courier"</span>),</span>
-<span id="cb21-15"><a href="#cb21-15" aria-hidden="true" tabindex="-1"></a>        <span class="at">axis.title.y =</span> <span class="fu">element_text</span>(<span class="at">family =</span> <span class="st">"Courier"</span>),</span>
-<span id="cb21-16"><a href="#cb21-16" aria-hidden="true" tabindex="-1"></a>        <span class="at">plot.title =</span> <span class="fu">element_text</span>(<span class="at">family =</span> <span class="st">"Courier"</span>, <span class="at">size =</span> <span class="dv">14</span>))</span></code><button title="Copy to Clipboard" class="code-copy-button"><i class="bi"></i></button></pre></div>
+<span id="cb21-4"><a href="#cb21-4" aria-hidden="true" tabindex="-1"></a><span class="co"># Create a histogram of streaming times for the highest streaming day </span></span>
+<span id="cb21-5"><a href="#cb21-5" aria-hidden="true" tabindex="-1"></a><span class="fu">ggplot</span>(<span class="at">data =</span> highest_streaming_day, <span class="fu">aes</span>(<span class="at">x =</span> time)) <span class="sc">+</span></span>
+<span id="cb21-6"><a href="#cb21-6" aria-hidden="true" tabindex="-1"></a>  <span class="fu">geom_histogram</span>(<span class="at">bins =</span> <span class="dv">30</span>, <span class="at">fill =</span> <span class="st">"#8ACE00"</span>) <span class="sc">+</span></span>
+<span id="cb21-7"><a href="#cb21-7" aria-hidden="true" tabindex="-1"></a>  <span class="fu">labs</span>(<span class="at">x =</span> <span class="st">"Time"</span>,</span>
+<span id="cb21-8"><a href="#cb21-8" aria-hidden="true" tabindex="-1"></a>       <span class="at">y =</span> <span class="st">"Total Number of Streams (n)"</span>,</span>
+<span id="cb21-9"><a href="#cb21-9" aria-hidden="true" tabindex="-1"></a>       <span class="at">title =</span> <span class="fu">paste</span>(<span class="st">"Highest Streaming Day,"</span>, daily_songs<span class="sc">$</span>md_date[<span class="dv">1</span>], <span class="st">"!"</span>)) <span class="sc">+</span></span>
+<span id="cb21-10"><a href="#cb21-10" aria-hidden="true" tabindex="-1"></a>  <span class="fu">scale_x_time</span>(<span class="at">expand =</span> <span class="fu">c</span>(<span class="dv">0</span>, <span class="dv">0</span>)) <span class="sc">+</span></span>
+<span id="cb21-11"><a href="#cb21-11" aria-hidden="true" tabindex="-1"></a>  <span class="fu">scale_y_continuous</span>(<span class="at">expand =</span> <span class="fu">c</span>(<span class="dv">0</span>, <span class="dv">0</span>)) <span class="sc">+</span></span>
+<span id="cb21-12"><a href="#cb21-12" aria-hidden="true" tabindex="-1"></a>  <span class="fu">theme_bw</span>() <span class="sc">+</span></span>
+<span id="cb21-13"><a href="#cb21-13" aria-hidden="true" tabindex="-1"></a>  <span class="fu">theme</span>(<span class="at">axis.text.x =</span> <span class="fu">element_text</span>(<span class="at">angle =</span> <span class="dv">45</span>, <span class="at">hjust =</span> <span class="dv">1</span>, <span class="at">family =</span> <span class="st">"Courier"</span>),  </span>
+<span id="cb21-14"><a href="#cb21-14" aria-hidden="true" tabindex="-1"></a>        <span class="at">axis.text.y =</span> <span class="fu">element_text</span>(<span class="at">family =</span> <span class="st">"Courier"</span>),</span>
+<span id="cb21-15"><a href="#cb21-15" aria-hidden="true" tabindex="-1"></a>        <span class="at">axis.title.x =</span> <span class="fu">element_text</span>(<span class="at">family =</span> <span class="st">"Courier"</span>),</span>
+<span id="cb21-16"><a href="#cb21-16" aria-hidden="true" tabindex="-1"></a>        <span class="at">axis.title.y =</span> <span class="fu">element_text</span>(<span class="at">family =</span> <span class="st">"Courier"</span>),</span>
+<span id="cb21-17"><a href="#cb21-17" aria-hidden="true" tabindex="-1"></a>        <span class="at">plot.title =</span> <span class="fu">element_text</span>(<span class="at">family =</span> <span class="st">"Courier"</span>, <span class="at">size =</span> <span class="dv">14</span>))</span></code><button title="Copy to Clipboard" class="code-copy-button"><i class="bi"></i></button></pre></div>
 </details>
 <div class="cell-output-display">
 <div>
